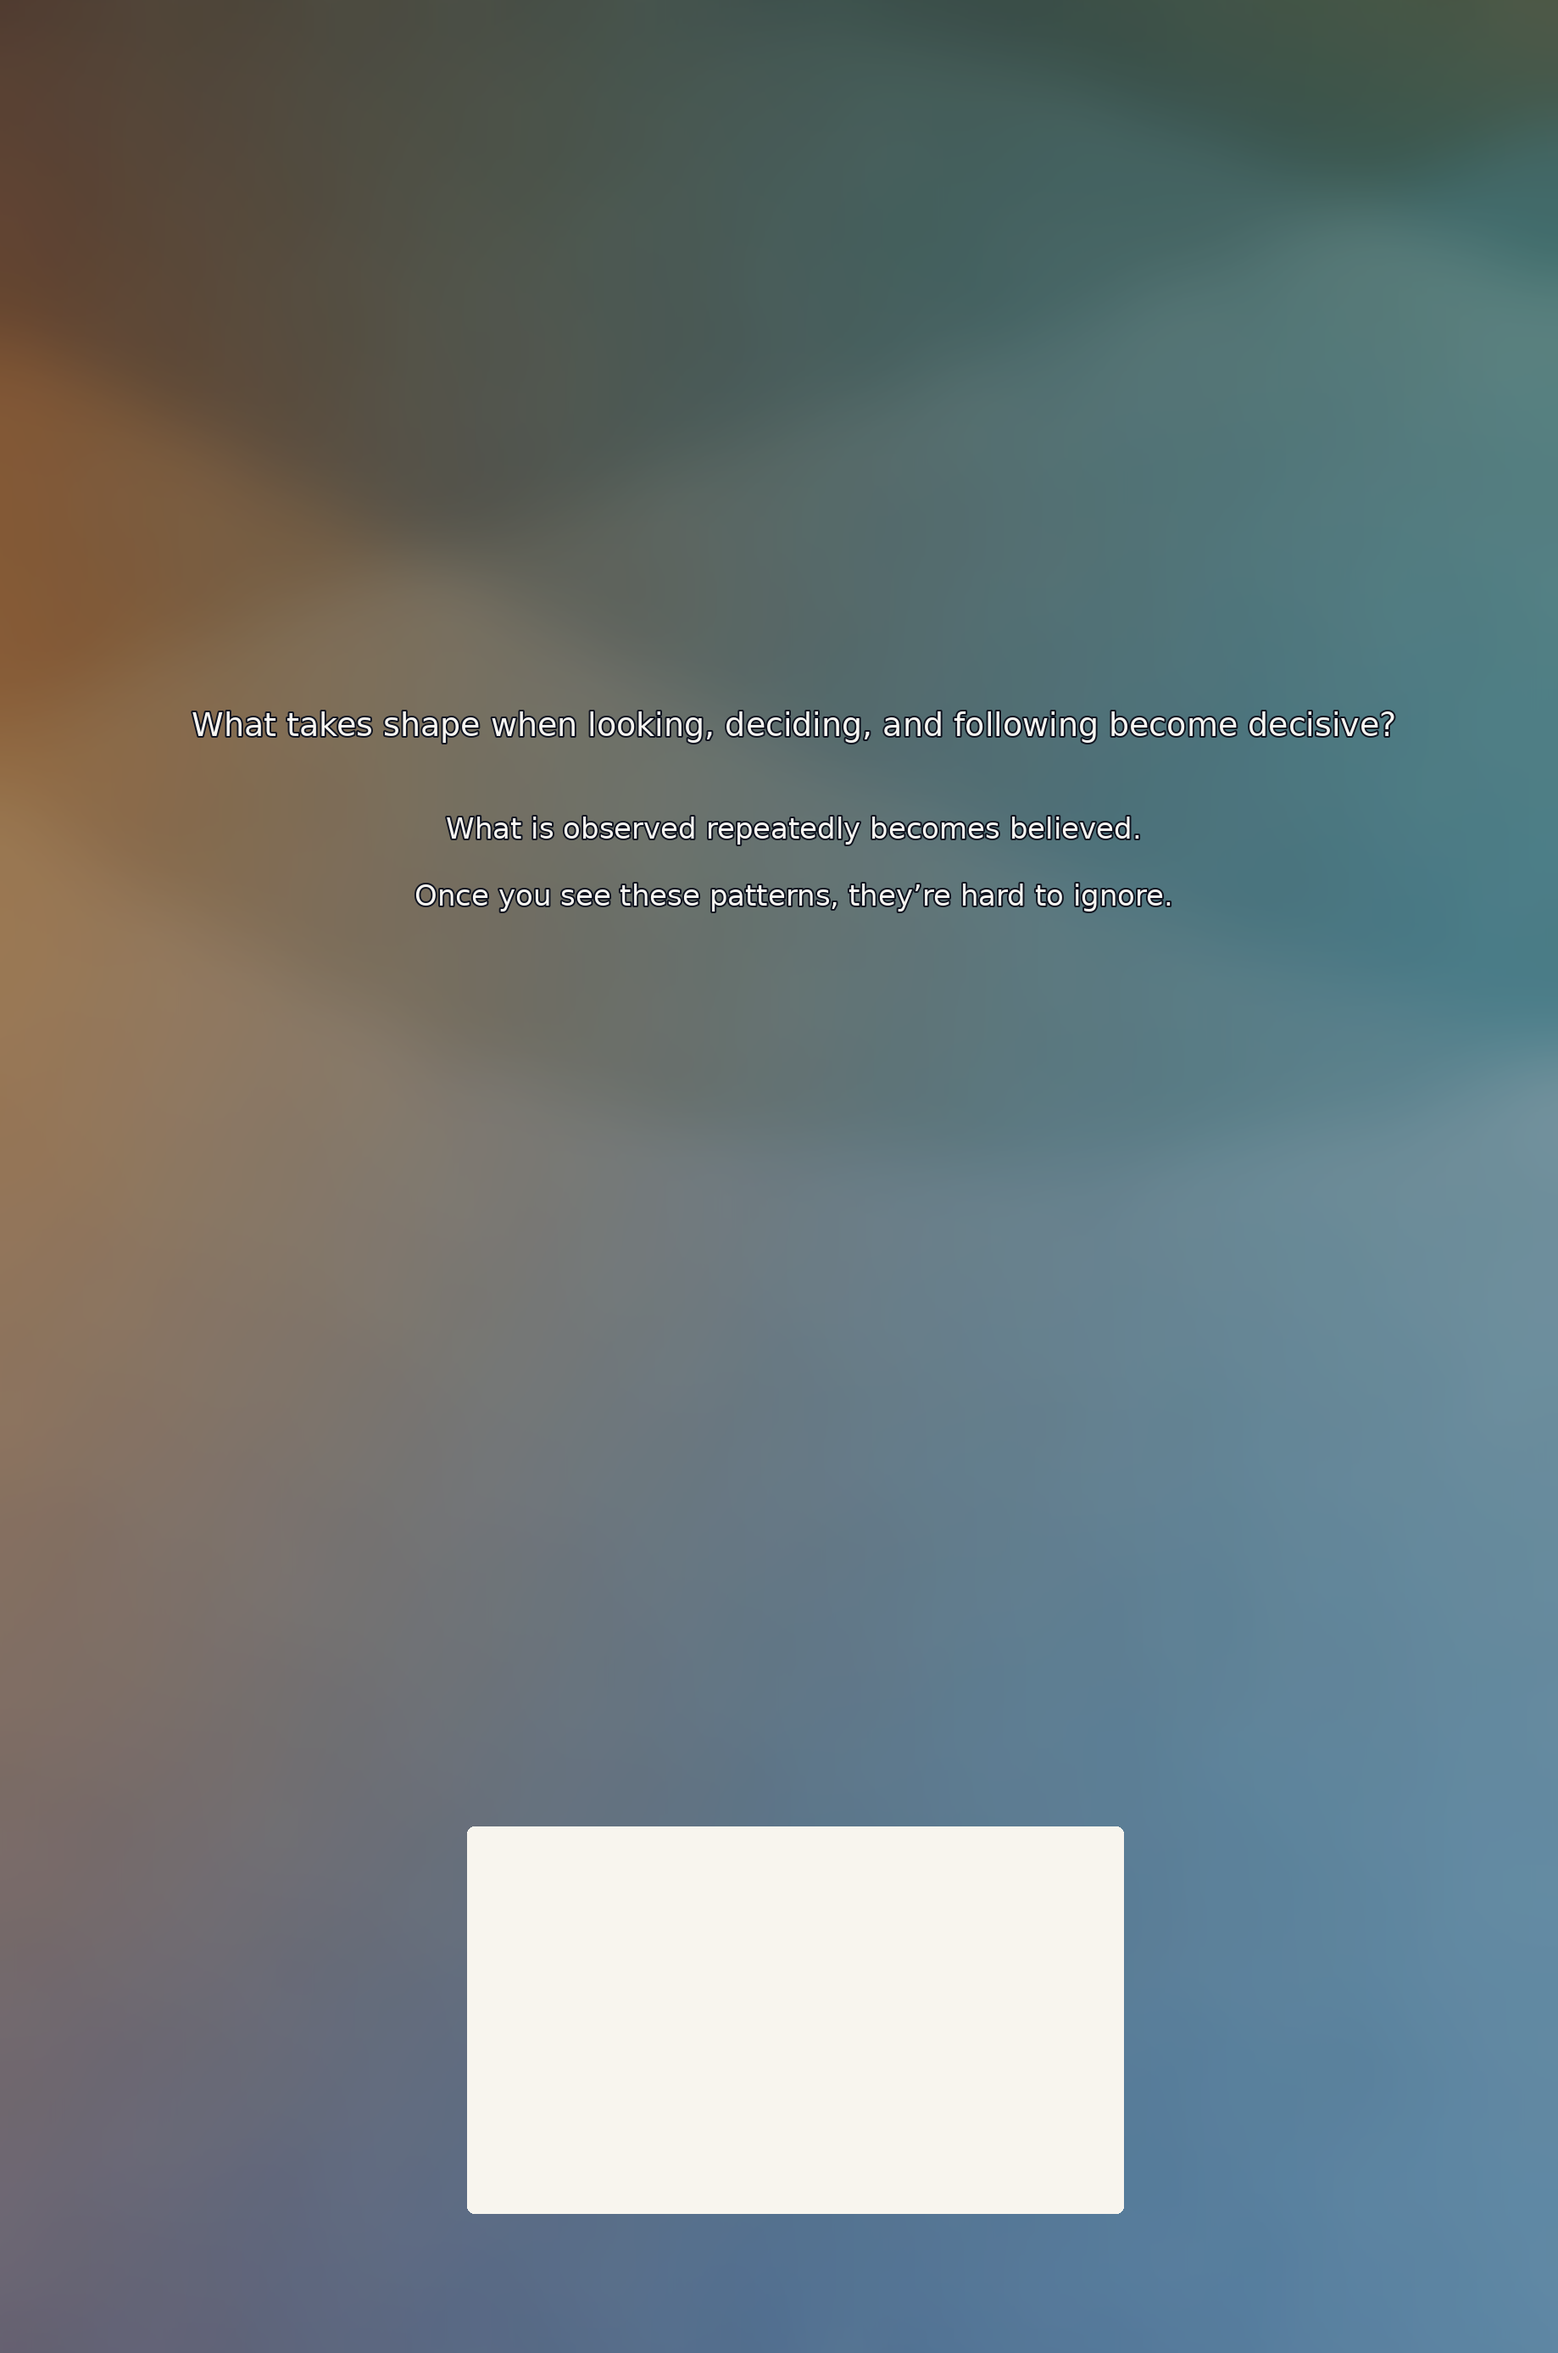
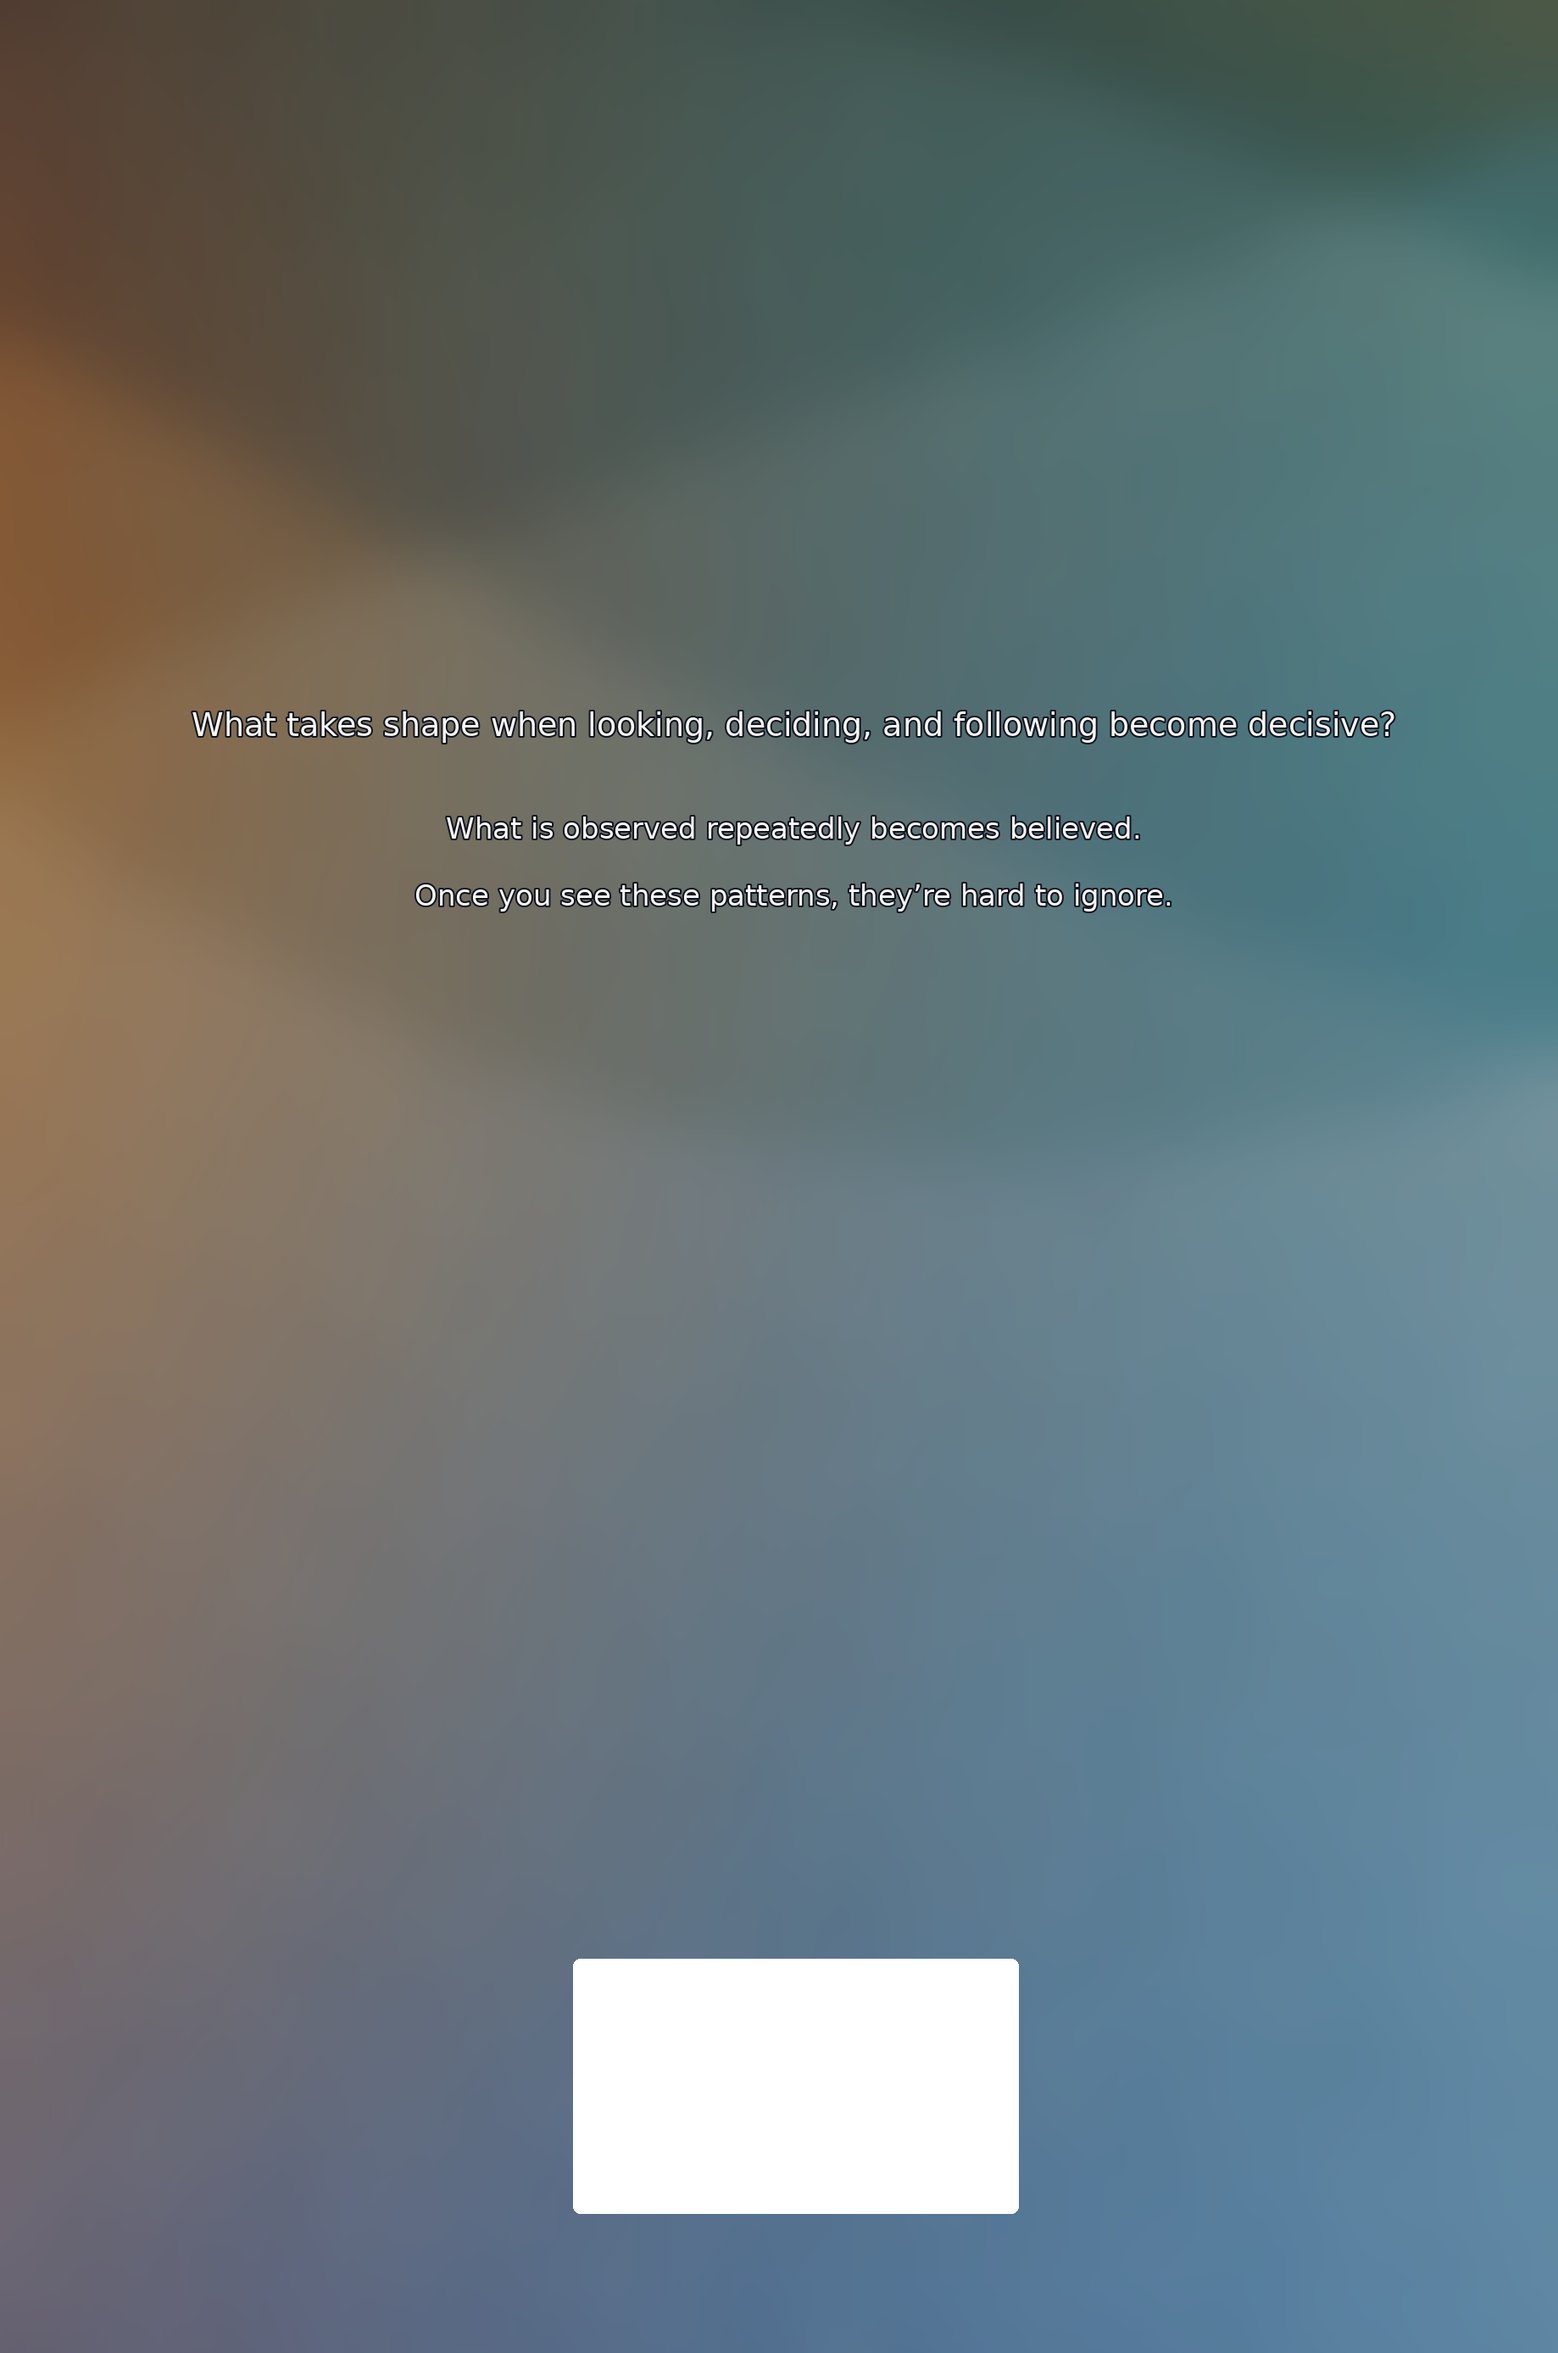
Fix Observer Patterns IngramSpark barcode reserve size and color (#434)
Regenerate the back panel with a 1.75×1.0 in pure-white clear area
so Ingram can place the barcode; the previous ~2.58×1.52 cream box
was rejected in premedia.

Changed region(s): [[0.2791, 0.7748, 0.7443, 0.9607]]

diff --git a/tools/generate_ingramspark_wrap_from_cover.py b/tools/generate_ingramspark_wrap_from_cover.py
@@ -177,8 +177,8 @@ def make_back(
     bottom = h - inches_to_px(BARCODE_BOTTOM_INSET_IN)
     x0 = cx - bw // 2
     y0 = bottom - bh
-    # Quiet white/cream reserve for Ingram-generated barcode.
-    draw.rounded_rectangle((x0, y0, x0 + bw, y0 + bh), radius=8, fill=(248, 245, 238))
+    # Quiet white reserve for Ingram-generated barcode (must be white, ~1.75×1.0 in).
+    draw.rounded_rectangle((x0, y0, x0 + bw, y0 + bh), radius=8, fill=(255, 255, 255))
 
     copy_lines = [ln.strip() for ln in (lines or []) if ln.strip()]
     if len(copy_lines) > 3:

diff --git a/books/observer-patterns/assets/ingramspark/README.md b/books/observer-patterns/assets/ingramspark/README.md
@@ -5,7 +5,7 @@ Production source assets for `assembled-raster-wrap` (not website covers). Deriv
 to IngramSpark (2026-07); `book.yml` status is `production-approved`.
 
 ```
-back.png          # 1838×2775 @ 300 ppi — atmosphere + 3-line back copy + barcode clear reserve
+back.png          # 1838×2775 @ 300 ppi — atmosphere + 3-line back copy + 1.75×1.0 in white barcode reserve
 spine-source.png  # 44×2775 @ 300 ppi — uncropped master for page-count recrops
 spine.png         # 24×2775 @ 300 ppi — center-cropped for 32 cream pages (provisional)
 front.png         # 1838×2775 @ 300 ppi — upscaled cover fitted into trim+bleed
